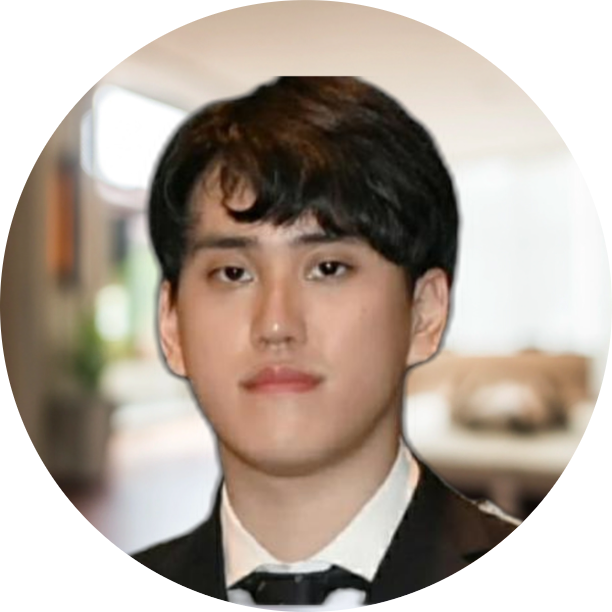
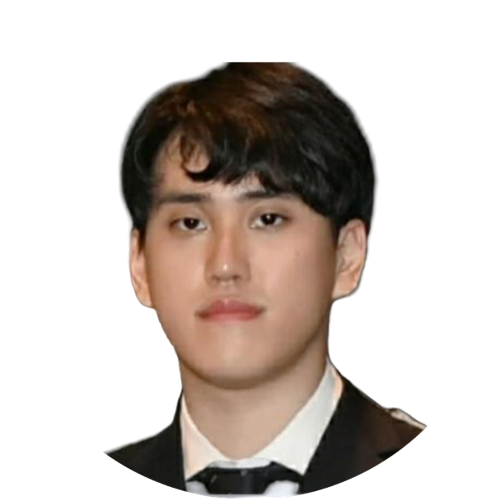
뮤직플레이어 디자인 변경 및 erd 수정

diff --git a/portfolio_vue3/src/components/main/main_header.vue b/portfolio_vue3/src/components/main/main_header.vue
@@ -2,7 +2,7 @@
     <header class="my-header masthead text-white text-center">
         <div class="container d-flex align-items-center flex-column">
             <!-- Masthead Avatar Image-->
-            <img class="masthead-avatar mb-5" src="@/assets/img/avataaars.svg" alt="..." />
+            <img class="masthead-avatar mb-5" src="@/assets/img/avataaars_preview_rev_1.png" alt="..." />
             <!-- Masthead Heading-->
             <h1 class="masthead-heading text-uppercase mb-0">test</h1>
             <!-- Icon Divider-->

diff --git a/portfolio_vue3/src/components/main/my_about.vue b/portfolio_vue3/src/components/main/my_about.vue
@@ -1,5 +1,5 @@
 <template>
-    <section class="page-section bg-primary text-white mb-0" id="about">
+    <section class="my-about page-section text-white mb-0" id="about">
         <div class="container">
             <!-- About Section Heading-->
             <h2 class="page-section-heading text-center text-uppercase text-white">About</h2>
@@ -31,3 +31,8 @@
         </div>
     </section>
 </template>
+<style>
+.my-about{
+    background-color: rgb(224, 227, 218);
+}
+</style>

diff --git a/portfolio_vue3/src/components/main/basic_footer.vue b/portfolio_vue3/src/components/main/basic_footer.vue
@@ -1,5 +1,5 @@
 <template>
-    <footer class="footer text-center">
+    <footer class="footer text-center my-header">
         <div class="container">
             <div class="row">
                 <!-- Footer Location-->
@@ -38,5 +38,7 @@ export default {
 </script>
 
 <style>
-
+.my-header{
+    background-color: rgb(86, 98, 112);
+}
 </style>

diff --git a/portfolio_vue3/src/components/menu/menu_body/music/myMusic.vue b/portfolio_vue3/src/components/menu/menu_body/music/myMusic.vue
@@ -131,8 +131,9 @@ export default {
 
 .music-form{
     background-color: rgba(86, 98, 112);
-    border-radius: 50px;
-    
+    border-radius: 30px;
+    border: 10px solid rgb(170, 85, 153);
+    box-shadow: 10px 10px 10px 10px gray;
 }
 
 @font-face {

diff --git a/portfolio_vue3/src/components/main/menu_grid.vue b/portfolio_vue3/src/components/main/menu_grid.vue
@@ -60,3 +60,7 @@ export default {
     }
 }
 </script>
+
+<style>
+
+</style>

diff --git a/portfolio/portfolio/src/main/java/com/personal/portfolio/PortfolioApplication.java b/portfolio/portfolio/src/main/java/com/personal/portfolio/PortfolioApplication.java
@@ -11,3 +11,4 @@ public class PortfolioApplication {
 	}
 
 }
+ 
